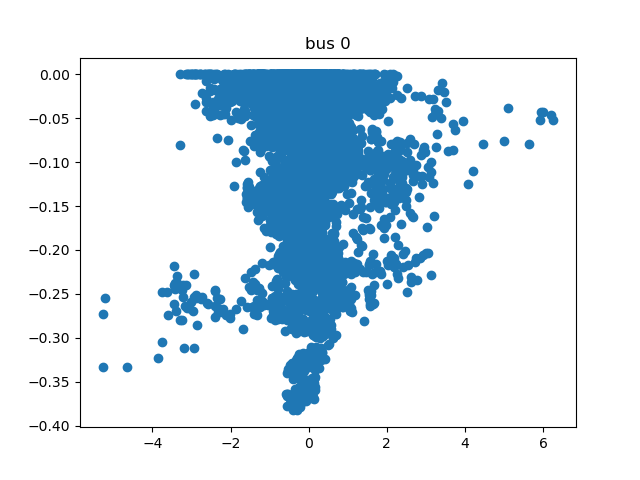
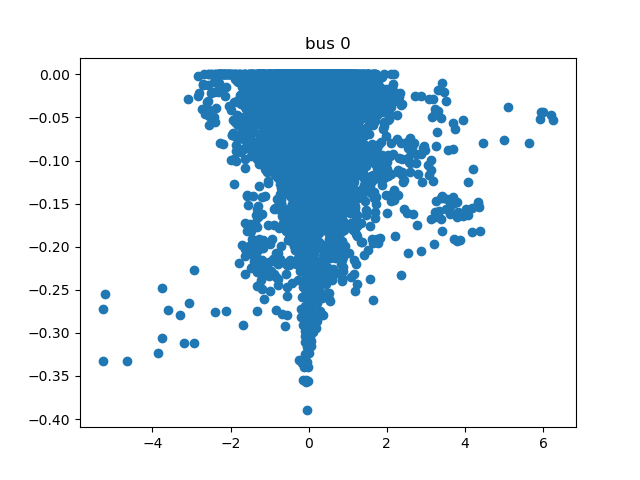
small experiments

diff --git a/env_single_phase_13bus.py b/env_single_phase_13bus.py
@@ -90,7 +90,7 @@ class IEEE13bus(gym.Env):
             elif self.state[i]>1.05:
                 reward_sep[i] = float(-1*LA.norm(p_action[i],1) -100*LA.norm([np.clip(self.state[i]-self.vmax, 0, np.inf)],2)**2) 
         reward = np.sum(reward_sep)
-        action = np.clip(action, -0.5, 0.5) #sensitivity check
+        # action = np.clip(action, -0.5, 0.5) #sensitivity check
         # state-transition dynamics
         for i in range(len(self.injection_bus)):
             self.network.sgen.at[i, 'q_mvar'] = action[i] 

diff --git a/safeDDPG.py b/safeDDPG.py
@@ -70,8 +70,8 @@ class DDPG:
         policy_loss.backward()
         self.policy_optimizer.step()
         #CINN
-        for Wz in self.policy_net.icnn.Wzs:
-            Wz.weight.data = torch.clamp(Wz.weight.data, 0, np.inf)
+        # for Wz in self.policy_net.icnn.Wzs:
+        #     Wz.weight.data = torch.clamp(Wz.weight.data, 0, np.inf)
 
         # print(f'value loss: {value_loss.cpu().detach().numpy():.4f}, policy_loss: {policy_loss.cpu().detach().numpy():.4f}')
 

diff --git a/IEEE_13_3p.py b/IEEE_13_3p.py
@@ -92,8 +92,8 @@ class IEEE13bus3p(gym.Env):
         #safe: -1.0*LA.norm(p_action[i],1) 
         # reward_sep += reward    
         # state-transition dynamics
-        rate=0.7
-        action = np.clip(action,-5*rate,5*rate)
+        # rate=0.7
+        # action = np.clip(action,-5*rate,5*rate)
         action = action * 100 #from MVar to kVar
         for i, idx in enumerate(self.injection_bus_str):
             # print(idx+' '+self.injection_bus[idx])

diff --git a/train_DDPG.py b/train_DDPG.py
@@ -221,8 +221,8 @@ elif (FLAG ==1):
     #         target_param.data.copy_(param.data)
 
     if args.algorithm == 'safe-ddpg':
-        num_episodes = 200    #13-3p
-        # num_episodes = 700
+        # num_episodes = 200    #13-3p
+        num_episodes = 700
     else:
         # num_episodes = 700 #123 2000 13-3p 700
         num_episodes = 700
